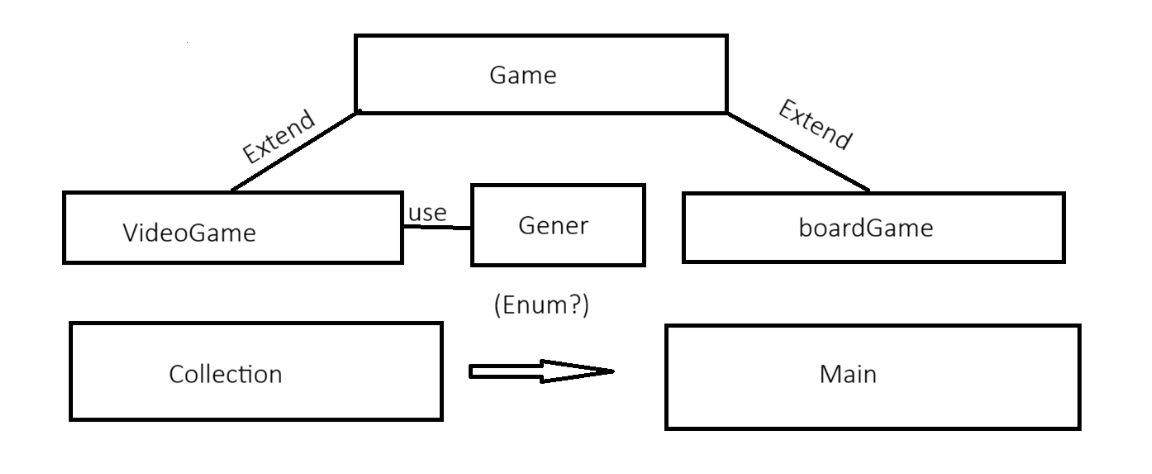
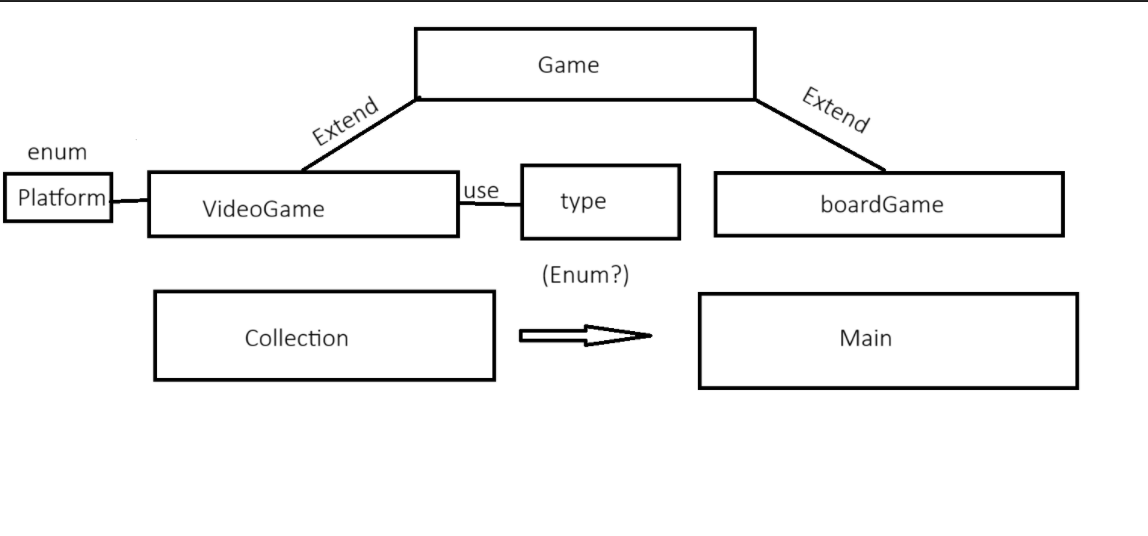
implement addGame and findById methods with simple tests

diff --git a/src/main/java/MohamedJaouad/Main.java b/src/main/java/MohamedJaouad/Main.java
@@ -1,4 +1,35 @@
 package MohamedJaouad;
 
+import MohamedJaouad.Games.BoardGame;
+import MohamedJaouad.Games.Enum.Platform;
+import MohamedJaouad.Games.Enum.Type;
+import MohamedJaouad.Games.Game;
+import MohamedJaouad.Games.VideoGame;
+
+import java.time.LocalDate;
+
 public class Main {
+    public static void main(String[] args) {
+
+        GameCollection collection = new GameCollection();
+        VideoGame v1 = new VideoGame("FIFA 25",
+                LocalDate.of(2025, 9, 1),
+                69.99,
+                Platform.PS5,
+                "40h",
+                Type.SPORTS);
+
+        BoardGame b1 = new BoardGame("Monopoly",
+                LocalDate.of(2000, 1, 1),
+                29.99,
+                4,
+                90);
+        collection.addGame(v1);
+        collection.addGame(b1);
+
+        Game result = collection.findById(1);
+        System.out.println("Risultato ricerca ID 1:");
+        System.out.println(result);
+    }
 }
+

diff --git a/src/main/java/MohamedJaouad/GameCollection.java b/src/main/java/MohamedJaouad/GameCollection.java
@@ -1,0 +1,25 @@
+package MohamedJaouad;
+
+import MohamedJaouad.Games.Game;
+
+import java.util.ArrayList;
+import java.util.List;
+
+public class GameCollection {
+private List<Game> games = new ArrayList<>();
+
+    public void addGame(Game newGame) {
+        boolean exist = games.stream().anyMatch(game -> game.getId() == newGame.getId());
+        if (exist) {
+            throw new IllegalArgumentException("esiste già un gioco con questo ID: " + newGame.getId());
+        }
+        games.add(newGame);
+    }
+    public Game findById(int id) {
+        return games.stream()
+                .filter(g -> g.getId() == id)
+                .findFirst()
+                .orElseThrow(() -> new IllegalArgumentException("id non trovato: " + id));
+    }
+}
+

diff --git a/src/main/java/MohamedJaouad/Games/BoardGame.java b/src/main/java/MohamedJaouad/Games/BoardGame.java
@@ -8,8 +8,7 @@ public class BoardGame extends Game{
 
     public BoardGame(String title, LocalDate annoPub, double price,int numPlayers,int averageDuration) {
         super(title, annoPub, price);
-        if (numPlayers < 2 || numPlayers> 10)
-        throw new IllegalArgumentException("I giocatori devono essere tra 2 e 10");
+        if (numPlayers < 2 || numPlayers> 10) throw new IllegalArgumentException("I giocatori devono essere tra 2 e 10");
         this.averageDuration=averageDuration;
         this.numPlayers=numPlayers;
     }

diff --git a/src/main/java/MohamedJaouad/Games/Game.java b/src/main/java/MohamedJaouad/Games/Game.java
@@ -4,12 +4,12 @@ import java.time.LocalDate;
 
 public abstract class Game {
 
-    private int id;
+    private  int id;
     private String title;
     private LocalDate annoPub;
     private double price;
 
-    private int countID=1;
+    private static int countID=1;
 
     public Game( String title,LocalDate annoPub,double price){
         if (price < 0)
